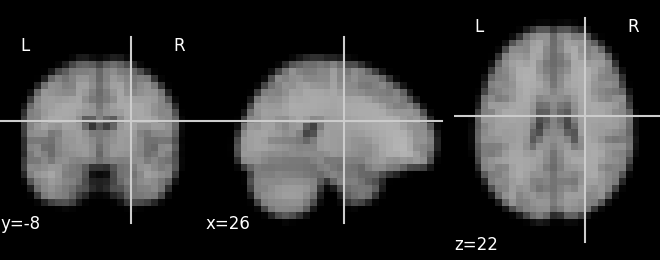
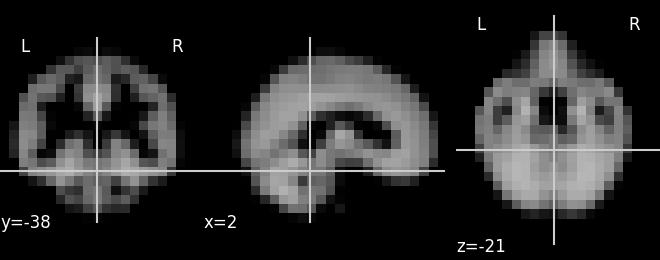
swapped MNI152_6mm for gray_mask_8mm for examples and default template

diff --git a/docs/auto_examples/simulated_patient_data.py b/docs/auto_examples/simulated_patient_data.py
@@ -27,28 +27,38 @@ import pickle
 # n_samples
 n_samples = 1000
 
-# load example model to get locations
-with open(os.path.dirname(os.path.abspath(__file__)) + '/../superEEG/data/R_small_MNI.npy', 'rb') as handle:
-    locs = np.load(handle)
+# load nifti to get locations
+gray = se.load(os.path.dirname(os.path.abspath(__file__)) + '/../superEEG/data/gray_mask_20mm_brain.nii')
 
-# # get the locations
-#
-# R = scipy.linalg.toeplitz(np.linspace(0,1,len(locs))[::-1])
-#
-# count = 0
-# patient_inds = slice_list(range(0, len(locs)), 13)
-# for p in patient_inds:
-#
-#     count += 1
-#     rand_dist = np.random.multivariate_normal(np.zeros(len(locs)), np.eye(len(locs)), size=n_samples)
-#     bo = se.Brain(data=np.dot(rand_dist, scipy.linalg.cholesky(R))[:,p], locs=pd.DataFrame(locs[p,:], columns=['x', 'y', 'z']))
-#
-#     bo.to_pickle(os.path.dirname(os.path.abspath(__file__)) + '/../superEEG/data/synthetic_' + str(count))
-# data = []
-# for i in range(1,14):
-#     with open(os.path.dirname(os.path.abspath(__file__)) + '/../superEEG/data/synthetic_' +str(i) + '.bo', 'rb') as handle:
-#         data.append(pickle.load(handle))
+locs = gray.locs
 
+# create 50 synthetic patient data with activity at every location
+synth_dir = os.path.dirname(os.path.abspath(__file__)) + '/../superEEG/data/synthetic_data'
+if not os.path.isdir(synth_dir):
+    os.mkdir(synth_dir)
+
+if not os.listdir(synth_dir):
+
+    R = scipy.linalg.toeplitz(np.linspace(0,1,len(locs))[::-1])
+    count = 0
+    for p in range(50):
+
+        rand_dist = np.random.multivariate_normal(np.zeros(len(locs)), np.eye(len(locs)), size=n_samples)
+        bo = se.Brain(data=np.dot(rand_dist, scipy.linalg.cholesky(R)), locs=pd.DataFrame(locs, columns=['x', 'y', 'z']))
+        bo.to_pickle(os.path.join(synth_dir, 'synthetic_'+ str(count).rjust(2, '0')))
+        count += 1
+
+
+model_data = []
+
+
+for i in np.random.choice(range(50), 10, replace=False):
+
+    p = np.random.choice(range(len(locs)), 20, replace=False)
+
+    with open(os.path.dirname(os.path.abspath(__file__)) + '/../superEEG/data/synthetic_data/synthetic_' +str(i).rjust(2, '0') + '.bo', 'rb') as handle:
+        bo = pickle.load(handle)
+        model_data.append(se.Brain(data=bo.data.iloc[:, p],locs= bo.locs.iloc[p]))
 
 ## create model with synthetic patient data, random sample 20 electrodes
 

diff --git a/superEEG/brain.py b/superEEG/brain.py
@@ -119,10 +119,8 @@ class Brain(object):
         self.n_secs = self.data.shape[0]/self.sample_rate[0]
         self.date_created = time.strftime("%c")
 
-        # add methods
+        # add kurtosis
         self.kurtosis = kurt_vals(self)
-
-    # methods
 
     def info(self):
         """
@@ -160,7 +158,7 @@ class Brain(object):
             print('Brain object saved as pickle.')
 
     def to_nii(self, filepath=None,
-                 template='../superEEG/data/MNI152_T1_6mm_brain.nii.gz'):
+                 template='../superEEG/data/gray_mask_8mm_brain.nii'):
         """
         Save brain object as a nifti file
 

diff --git a/docs/auto_examples/plot_load_nifti.py b/docs/auto_examples/plot_load_nifti.py
@@ -16,7 +16,7 @@ import superEEG as se
 from nilearn import plotting
 
 # load nifti -> brain object
-bo = se.load('/Users/andyheusser/Documents/github/superEEG/superEEG/data/MNI152_T1_6mm_brain.nii.gz')
+bo = se.load('/Users/andyheusser/Documents/github/superEEG/superEEG/data/gray_mask_8mm_brain.nii')
 
 # export brain object -> nifti
 nifti = bo.to_nii()

diff --git a/examples/plot_load_nifti.py b/examples/plot_load_nifti.py
@@ -16,7 +16,7 @@ import superEEG as se
 from nilearn import plotting
 
 # load nifti -> brain object
-bo = se.load('/Users/andyheusser/Documents/github/superEEG/superEEG/data/MNI152_T1_6mm_brain.nii.gz')
+bo = se.load('/Users/andyheusser/Documents/github/superEEG/superEEG/data/gray_mask_8mm_brain.nii')
 
 # export brain object -> nifti
 nifti = bo.to_nii()

diff --git a/docs/auto_examples/simulated_patient_data.rst b/docs/auto_examples/simulated_patient_data.rst
@@ -34,28 +34,38 @@ model locations.
     # n_samples
     n_samples = 1000
 
-    # load example model to get locations
-    with open(os.path.dirname(os.path.abspath(__file__)) + '/../superEEG/data/R_small_MNI.npy', 'rb') as handle:
-        locs = np.load(handle)
+    # load nifti to get locations
+    gray = se.load(os.path.dirname(os.path.abspath(__file__)) + '/../superEEG/data/gray_mask_20mm_brain.nii')
 
-    # # get the locations
-    #
-    # R = scipy.linalg.toeplitz(np.linspace(0,1,len(locs))[::-1])
-    #
-    # count = 0
-    # patient_inds = slice_list(range(0, len(locs)), 13)
-    # for p in patient_inds:
-    #
-    #     count += 1
-    #     rand_dist = np.random.multivariate_normal(np.zeros(len(locs)), np.eye(len(locs)), size=n_samples)
-    #     bo = se.Brain(data=np.dot(rand_dist, scipy.linalg.cholesky(R))[:,p], locs=pd.DataFrame(locs[p,:], columns=['x', 'y', 'z']))
-    #
-    #     bo.to_pickle(os.path.dirname(os.path.abspath(__file__)) + '/../superEEG/data/synthetic_' + str(count))
-    # data = []
-    # for i in range(1,14):
-    #     with open(os.path.dirname(os.path.abspath(__file__)) + '/../superEEG/data/synthetic_' +str(i) + '.bo', 'rb') as handle:
-    #         data.append(pickle.load(handle))
+    locs = gray.locs
 
+    # create 50 synthetic patient data with activity at every location
+    synth_dir = os.path.dirname(os.path.abspath(__file__)) + '/../superEEG/data/synthetic_data'
+    if not os.path.isdir(synth_dir):
+        os.mkdir(synth_dir)
+
+    if not os.listdir(synth_dir):
+
+        R = scipy.linalg.toeplitz(np.linspace(0,1,len(locs))[::-1])
+        count = 0
+        for p in range(50):
+
+            rand_dist = np.random.multivariate_normal(np.zeros(len(locs)), np.eye(len(locs)), size=n_samples)
+            bo = se.Brain(data=np.dot(rand_dist, scipy.linalg.cholesky(R)), locs=pd.DataFrame(locs, columns=['x', 'y', 'z']))
+            bo.to_pickle(os.path.join(synth_dir, 'synthetic_'+ str(count).rjust(2, '0')))
+            count += 1
+
+
+    model_data = []
+
+
+    for i in np.random.choice(range(50), 10, replace=False):
+
+        p = np.random.choice(range(len(locs)), 20, replace=False)
+
+        with open(os.path.dirname(os.path.abspath(__file__)) + '/../superEEG/data/synthetic_data/synthetic_' +str(i).rjust(2, '0') + '.bo', 'rb') as handle:
+            bo = pickle.load(handle)
+            model_data.append(se.Brain(data=bo.data.iloc[:, p],locs= bo.locs.iloc[p]))
 
     ## create model with synthetic patient data, random sample 20 electrodes
 

diff --git a/docs/auto_examples/plot_load_nifti.rst b/docs/auto_examples/plot_load_nifti.rst
@@ -31,7 +31,7 @@ This example loads a nifti file and converts it into a brain object.
     from nilearn import plotting
 
     # load nifti -> brain object
-    bo = se.load('/Users/andyheusser/Documents/github/superEEG/superEEG/data/MNI152_T1_6mm_brain.nii.gz')
+    bo = se.load('/Users/andyheusser/Documents/github/superEEG/superEEG/data/gray_mask_8mm_brain.nii')
 
     # export brain object -> nifti
     nifti = bo.to_nii()
@@ -40,7 +40,7 @@ This example loads a nifti file and converts it into a brain object.
     plotting.plot_anat(nifti)
     plotting.show()
 
-**Total running time of the script:** ( 0 minutes  2.079 seconds)
+**Total running time of the script:** ( 0 minutes  1.676 seconds)
 
 
 
